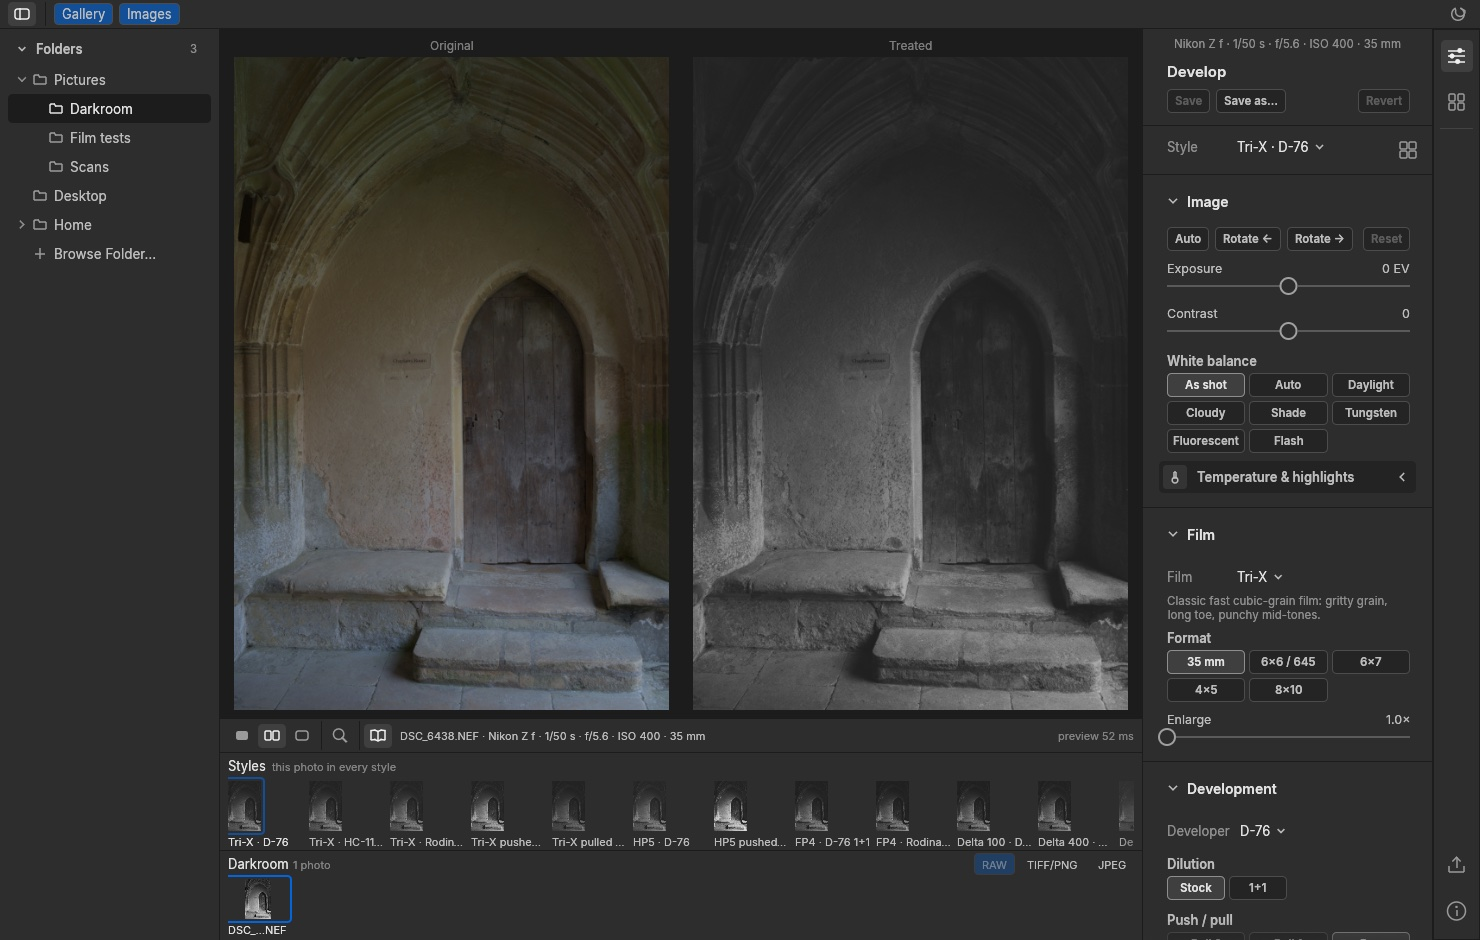
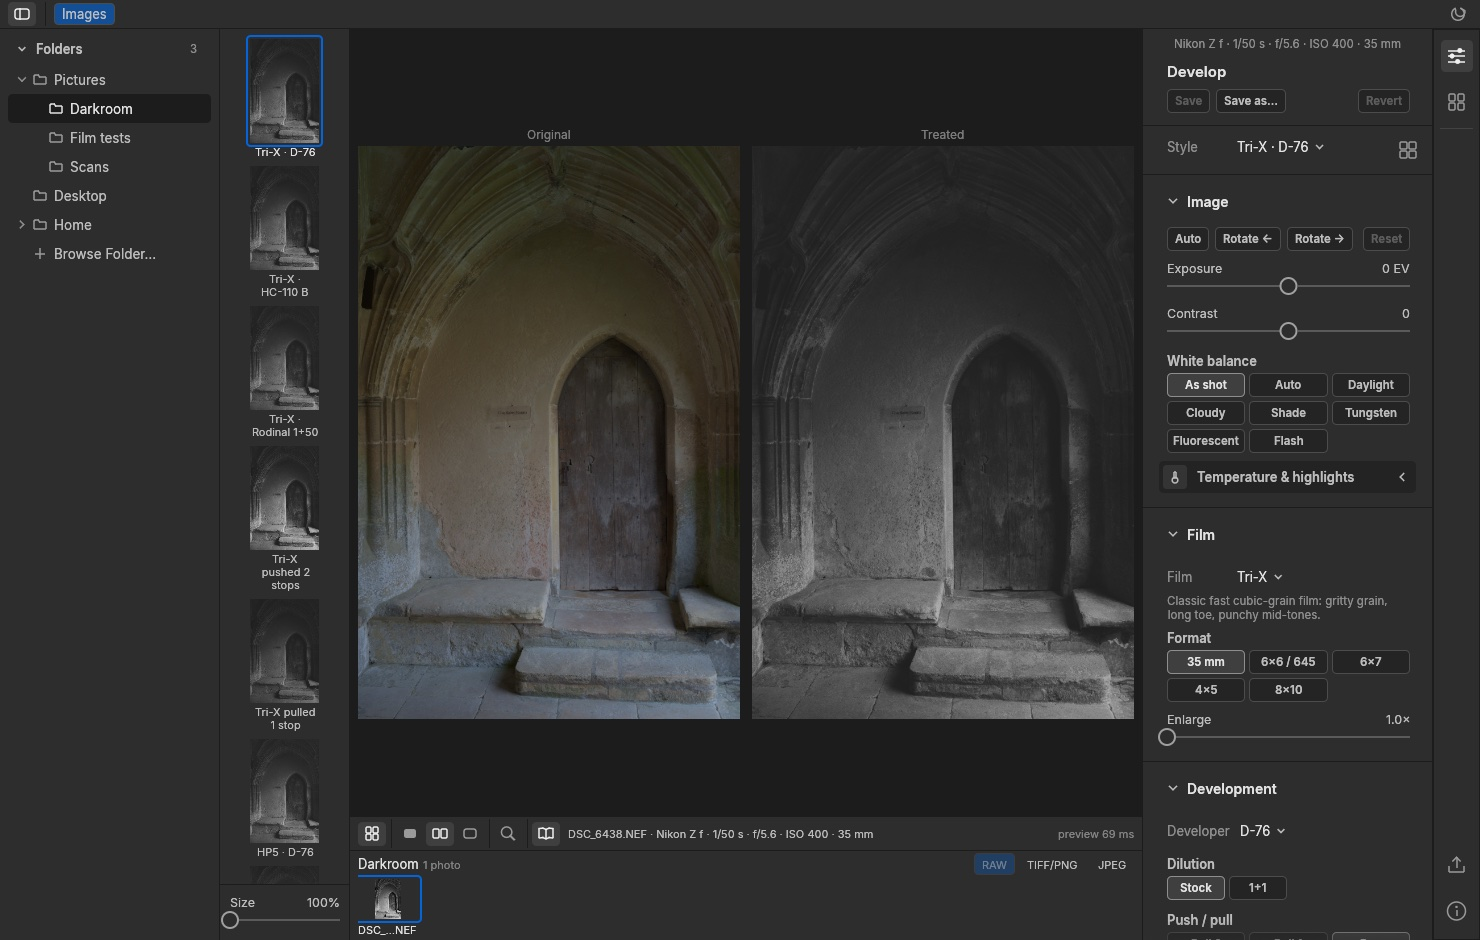
Style previews in a left column; README screenshot
- Style gallery moves to a column beside the folder tree: previews twice the
  earlier size, in the photo's shape, names wrapped to the preview width,
  a Size slider (Develop-panel style) at its base.
- Grid icon on the toolbar shows/hides it; the top-bar Gallery button and
  the Styles accordion header are gone.
- Fix the column reserving 14 pt too little width (slider row drawn into
  its margin).
- README screenshot of the new layout.

diff --git a/apps/bw-desktop/src/app.rs b/apps/bw-desktop/src/app.rs
@@ -29,6 +29,7 @@ const KEY_FOLDER: &str = "folder";
 const KEY_MODULE: &str = "right_module";
 const KEY_THEME: &str = "theme";
 const KEY_SHOW_INFO: &str = "show_info";
+const KEY_GALLERY_SCALE: &str = "gallery_scale";
 const KEY_BROWSER_BITMAPS: &str = "browser_bitmaps";
 const KEY_BROWSER_JPEGS: &str = "browser_jpegs";
 const KEY_UPDATE_AUTO: &str = "update_auto";
@@ -212,6 +213,32 @@ enum UpdateDialog {
 const KEY_EXPORT_DIR: &str = "export_dir";
 const KEY_EXPORT: &str = "export_settings";
 const KEY_PANELS: &str = "panels";
+/// Height of a style-gallery preview at the smallest size, in points; the size slider
+/// scales it up to twice this.
+const GALLERY_TILE_H: f32 = 104.0;
+/// Margin each side of the style previews in their column.
+const GALLERY_MARGIN: f32 = 10.0;
+
+/// Width of the style gallery column for previews `tile_w` wide: the previews, their
+/// margins and room for the scroll bar, and never too narrow for the size slider.
+fn gallery_width(tile_w: f32) -> f32 {
+    (tile_w + 2.0 * GALLERY_MARGIN + 6.0).max(130.0)
+}
+
+/// The style gallery's preview size, as a percentage of the smallest.
+const GALLERY_SIZE: widgets::SliderSpec = widgets::SliderSpec {
+    id: "gallery.size",
+    label: "Size",
+    help: "Size of the style previews, from the smallest (100%) to twice that (200%).",
+    min: 100.0,
+    max: 200.0,
+    default: 100.0,
+    step: 5.0,
+    decimals: 0,
+    suffix: "%",
+    signed: false,
+    log: false,
+};
 /// Side of the detail window's image area, in points.
 const DETAIL_VIEW_PT: f32 = 512.0;
 
@@ -279,6 +306,8 @@ pub struct App {
     compare: Compare,
     /// The toolbar shows the file name and capture details.
     show_info: bool,
+    /// Style-gallery preview size, 1 (smallest) to 2 (twice as large).
+    gallery_scale: f32,
 
     show_browser: bool,
     show_styles: bool,
@@ -441,6 +470,9 @@ impl App {
             preview_ms: None,
             compare: Compare::Treated,
             show_info: get(KEY_SHOW_INFO).is_none_or(|v| v != "0"),
+            gallery_scale: get(KEY_GALLERY_SCALE)
+                .and_then(|v| v.parse::<f32>().ok())
+                .map_or(1.0, |v| v.clamp(1.0, 2.0)),
             show_browser: panels[0],
             show_styles: panels[1],
             show_gallery: panels[2],
@@ -1537,8 +1569,6 @@ impl App {
                 self.about.open = true;
             }
             ui.separator();
-            ui.toggle_value(&mut self.show_gallery, "Gallery")
-                .on_hover_text("Show or hide the style gallery: this photo in every style (G)");
             ui.toggle_value(&mut self.show_filmstrip, "Images")
                 .on_hover_text("Show or hide the strip of photos in the chosen folder (I)");
             ui.with_layout(egui::Layout::right_to_left(egui::Align::Center), |ui| {
@@ -2123,88 +2153,130 @@ impl App {
         }
     }
 
+    /// Size of a style preview in the photo's shape: [`GALLERY_TILE_H`] × the size setting
+    /// tall (very wide panoramas are capped at twice that in width).
+    fn gallery_tile_size(&self) -> Vec2 {
+        let shape = self
+            .tiles
+            .iter()
+            .find_map(|t| match t {
+                Tile::Ready(tex) => Some(tex.size_vec2()),
+                _ => None,
+            })
+            .or_else(|| self.original.as_ref().map(|t| t.size_vec2()))
+            .unwrap_or(Vec2::new(3.0, 2.0));
+        let h = GALLERY_TILE_H * self.gallery_scale;
+        let aspect = (shape.x / shape.y).clamp(0.2, 5.0);
+        let w = (h * aspect).min(2.0 * h);
+        Vec2::new(w, w / aspect)
+    }
+
+    /// The style gallery column: the photo in every style, one preview above another,
+    /// with the preview-size slider at its base.
     fn gallery(&mut self, ui: &mut egui::Ui) {
         let mut pick = None;
         let mut menu_action = None;
-        ui.horizontal(|ui| {
-            ui.label(egui::RichText::new("Styles").strong())
-                .on_hover_text("The photo above rendered in every style. Click one to use it.");
-            ui.label(
-                egui::RichText::new("this photo in every style")
-                    .small()
-                    .weak(),
-            );
-        });
-        egui::ScrollArea::horizontal()
-            .auto_shrink([false, true])
+        // Fill the column: egui reserves only the width a fixed-size panel's contents use,
+        // and the narrow previews would let the photo's panels overlap the slider.
+        ui.set_min_width(ui.available_width());
+        ui.spacing_mut().item_spacing.y = 0.0;
+        // Every preview shows the same photo, so all share its shape.
+        let size = self.gallery_tile_size();
+        let accent = Tokens::get(ui.ctx()).accent;
+        // The slider keeps its place at the base; the previews scroll above it.
+        let slider_h = 52.0;
+        let list_h = (ui.available_height() - slider_h).max(0.0);
+        egui::ScrollArea::vertical()
+            .max_height(list_h)
+            .min_scrolled_height(list_h)
+            .auto_shrink(false)
             .show(ui, |ui| {
-                let tile_h = (ui.available_height() - 22.0).clamp(50.0, 260.0);
-                let size = Vec2::new(tile_h * 1.5, tile_h);
-                ui.horizontal(|ui| {
+                ui.vertical_centered(|ui| {
+                    ui.spacing_mut().item_spacing.y = 2.0;
                     for (i, entry) in self.store.entries.iter().enumerate() {
-                        ui.vertical(|ui| {
-                            ui.set_width(size.x);
-                            let response = match self.tiles.get(i) {
-                                Some(Tile::Ready(tex)) => ui.add(
-                                    egui::Image::new(tex)
-                                        .fit_to_exact_size(size)
-                                        .maintain_aspect_ratio(true)
-                                        .sense(Sense::click()),
-                                ),
-                                Some(Tile::Unavailable) => {
-                                    let (rect, response) =
-                                        ui.allocate_exact_size(size, Sense::click());
-                                    ui.put(
-                                        rect,
-                                        egui::Label::new(
-                                            egui::RichText::new("No published time").small().weak(),
-                                        ),
+                        let selected = i == self.current;
+                        ui.add_space(6.0);
+                        let (rect, response) = ui.allocate_exact_size(size, Sense::click());
+                        let response = match self.tiles.get(i) {
+                            Some(Tile::Ready(tex)) => {
+                                let t = tex.size_vec2();
+                                let scale = (size.x / t.x).min(size.y / t.y);
+                                let shown = egui::Rect::from_center_size(rect.center(), t * scale);
+                                egui::Image::new(tex).paint_at(ui, shown);
+                                if selected {
+                                    ui.painter().rect_stroke(
+                                        shown.expand(2.0),
+                                        2.0,
+                                        Stroke::new(2.0, accent),
+                                        egui::StrokeKind::Outside,
                                     );
-                                    response.on_hover_text(
-                                        "This film and developer have no published development time, so the style can't be rendered.",
-                                    )
                                 }
-                                _ => {
-                                    let (rect, response) =
-                                        ui.allocate_exact_size(size, Sense::click());
-                                    if self.loaded.is_some() {
-                                        ui.put(rect, egui::Spinner::new());
-                                    }
-                                    response
-                                }
-                            };
-                            let text = egui::RichText::new(&entry.style.name).small();
-                            let text = if i == self.current {
-                                text.strong()
-                            } else {
-                                text
-                            };
-                            ui.add(egui::Label::new(text).truncate());
-                            if i == self.current {
-                                ui.painter().rect_stroke(
-                                    response.rect.expand(2.0),
-                                    2.0,
-                                    Stroke::new(2.0, ui.visuals().selection.bg_fill),
-                                    egui::StrokeKind::Outside,
+                                response
+                            }
+                            Some(Tile::Unavailable) => {
+                                ui.put(
+                                    rect,
+                                    egui::Label::new(
+                                        egui::RichText::new("No published time").small().weak(),
+                                    ),
                                 );
+                                response.on_hover_text(
+                                    "This film and developer have no published development time, so the style can't be rendered.",
+                                )
                             }
-                            let response = response.on_hover_text(format!(
-                                "{} (right-click for options)",
-                                entry.style.name
-                            ));
-                            if response.clicked() {
-                                pick = Some(i);
-                            }
-                            let (up, down) = (self.store.can_move(i, -1), self.store.can_move(i, 1));
-                            response.context_menu(|ui| {
-                                if let Some(a) = style_menu::items(ui, i, entry.builtin, up, down) {
-                                    menu_action = Some(a);
+                            _ => {
+                                if self.loaded.is_some() {
+                                    ui.put(rect, egui::Spinner::new());
                                 }
-                            });
+                                response
+                            }
+                        };
+                        let text = egui::RichText::new(&entry.style.name).small();
+                        let text = if selected { text.strong() } else { text };
+                        // The name wraps within the preview's width, centred under it.
+                        ui.allocate_ui(Vec2::new(size.x, 0.0), |ui| {
+                            ui.set_max_width(size.x);
+                            ui.vertical_centered(|ui| ui.add(egui::Label::new(text).wrap()));
+                        });
+                        let response = response.on_hover_text(format!(
+                            "{}: the photo in this style. Click to use it; right-click for options.",
+                            entry.style.name
+                        ));
+                        if response.clicked() {
+                            pick = Some(i);
+                        }
+                        let (up, down) = (self.store.can_move(i, -1), self.store.can_move(i, 1));
+                        response.context_menu(|ui| {
+                            if let Some(a) = style_menu::items(ui, i, entry.builtin, up, down) {
+                                menu_action = Some(a);
+                            }
                         });
                     }
+                    ui.add_space(6.0);
                 });
             });
+        widgets::divider(ui);
+        ui.add_space(4.0);
+        // The Develop panel's slider row, with its wide inset drawn into the column's
+        // margins so the track lines up with the previews.
+        let cursor = ui.cursor().min;
+        let panel = ui.clip_rect();
+        let row = egui::Rect::from_min_max(
+            Pos2::new(panel.left() + GALLERY_MARGIN - widgets::PAD_L, cursor.y),
+            Pos2::new(
+                panel.right() - GALLERY_MARGIN + widgets::PAD_R,
+                panel.bottom(),
+            ),
+        );
+        let mut percent = f64::from(self.gallery_scale) * 100.0;
+        let mut child = ui.new_child(egui::UiBuilder::new().max_rect(row));
+        if widgets::slider(&mut child, &GALLERY_SIZE, &mut percent, true) {
+            self.gallery_scale = (percent / 100.0) as f32;
+        }
+        // Reserve the row within the column: counting the margin it is drawn into would
+        // move the column's edge.
+        let height = child.min_rect().height();
+        ui.allocate_exact_size(Vec2::new(ui.available_width(), height), Sense::hover());
         if let Some(i) = pick {
             self.select_style(i);
         }
@@ -2218,6 +2290,17 @@ impl App {
     fn toolbar(&mut self, ui: &mut egui::Ui) {
         ui.horizontal_centered(|ui| {
             ui.spacing_mut().item_spacing.x = 2.0;
+            if widgets::icon_button(
+                ui,
+                Icon::Grid,
+                self.show_gallery,
+                "Show or hide the style previews: this photo in every style (G)",
+            )
+            .clicked()
+            {
+                self.show_gallery = !self.show_gallery;
+            }
+            ui.separator();
             for (mode, icon, help) in [
                 (
                     Compare::Treated,
@@ -2479,6 +2562,17 @@ impl eframe::App for App {
             .size_range(160.0..=420.0)
             .show_collapsible(ui, &mut show_browser, |ui| self.browser_panel(ui));
         self.show_browser = show_browser;
+        // The style gallery: a column beside the folder tree, as wide as its previews.
+        let mut show_gallery = self.show_gallery;
+        let gallery_w = gallery_width(self.gallery_tile_size().x);
+        egui::Panel::left("style_column")
+            .frame(
+                egui::Frame::side_top_panel(ui.style()).inner_margin(egui::Margin::symmetric(0, 4)),
+            )
+            .resizable(false)
+            .exact_size(gallery_w)
+            .show_collapsible(ui, &mut show_gallery, |ui| self.gallery(ui));
+        self.show_gallery = show_gallery;
         let tokens = Tokens::get(ctx);
         egui::Panel::right("tool_strip")
             .exact_size(48.0)
@@ -2501,7 +2595,7 @@ impl eframe::App for App {
                 Module::Styles => self.styles_panel(ui),
             });
         self.show_styles = show_styles;
-        // The image strip sits at the very bottom, the style gallery above it.
+        // The image strip sits at the very bottom, the toolbar above it.
         let mut show_filmstrip = self.show_filmstrip;
         egui::Panel::bottom("filmstrip")
             .resizable(true)
@@ -2509,13 +2603,6 @@ impl eframe::App for App {
             .size_range(90.0..=280.0)
             .show_collapsible(ui, &mut show_filmstrip, |ui| self.filmstrip(ui));
         self.show_filmstrip = show_filmstrip;
-        let mut show_gallery = self.show_gallery;
-        egui::Panel::bottom("gallery")
-            .resizable(true)
-            .default_size(120.0)
-            .size_range(80.0..=300.0)
-            .show_collapsible(ui, &mut show_gallery, |ui| self.gallery(ui));
-        self.show_gallery = show_gallery;
         egui::Panel::bottom("toolbar")
             .resizable(false)
             .exact_size(34.0)
@@ -2687,6 +2774,7 @@ impl eframe::App for App {
         storage.set_string(KEY_BROWSER_BITMAPS, flag_str(self.browser_filter.bitmaps));
         storage.set_string(KEY_UPDATE_AUTO, flag_str(self.update_auto));
         storage.set_string(KEY_SHOW_INFO, flag_str(self.show_info));
+        storage.set_string(KEY_GALLERY_SCALE, self.gallery_scale.to_string());
         storage.set_string(KEY_UPDATE_LAST, self.update_last_check.to_string());
         storage.set_string(
             KEY_UPDATE_SKIPPED,

diff --git a/apps/bw-desktop/src/worker.rs b/apps/bw-desktop/src/worker.rs
@@ -24,7 +24,7 @@ use crate::export::{Conflict, Format, resolve_conflict};
 use crate::source::Source;
 
 /// Long edge of style-gallery tiles.
-pub const TILE_EDGE: usize = 360;
+pub const TILE_EDGE: usize = 480;
 /// Pixel rectangle `(x, y, width, height)` of a detail crop of `size` pixels centred on
 /// `centre` (0–1 across the image), moved inwards where it would cross an edge.
 pub fn detail_rect(

diff --git a/docs/USER_GUIDE.md b/docs/USER_GUIDE.md
@@ -69,14 +69,14 @@ installed without you.
 
 | Area | What it's for |
 |---|---|
-| **Top bar** | The sidebar icon (far left) shows or hides the folder tree; **Gallery** and **Images** show or hide the strips under the photo. The theme icon (far right) steps through **Auto**, **Light** and **Dark**. The Develop/Styles panel and Export are in the tool strip. |
+| **Top bar** | The sidebar icon (far left) shows or hides the folder tree, and **Images** the strip under the photo. The theme icon (far right) steps through **Auto**, **Light** and **Dark**. The Develop/Styles panel and Export are in the tool strip. |
 | **Folders** (left) | A tree of folders: choose the one you're working in. |
 | **Image** (centre) | The selected photo rendered with the current style, or compared with the original. |
-| **Toolbar** (under the photo) | Icons for the **Treated**, **Side by side** and **Original** views, **Detail 1:1** (magnifying glass), and a book that shows or hides the file name and capture details. |
+| **Toolbar** (under the photo) | A grid icon that shows or hides the style column, then icons for the **Treated**, **Side by side** and **Original** views, **Detail 1:1** (magnifying glass), and a book that shows or hides the file name and capture details. |
 | **Tool strip** (far right) | Icons that choose the panel beside it: **Develop** and **Styles** at the top, **Export** and **About** at the bottom. Click the active icon again to hide the panel. |
 | **Develop** panel (right) | The style picker and the Image, Film, Development, Grain and Print sections. |
 | **Styles** panel (right) | Every style, in groups. |
-| **Styles** strip (bottom) | The current photo rendered with every style, to compare them at a glance. |
+| **Styles** column (left, beside the folders) | The current photo rendered with every style, to compare them at a glance. The **Size** slider at its base makes the previews up to twice as large (double-click it to reset). Show or hide it with the grid icon at the left of the toolbar. |
 | **Images** strip (very bottom) | The photos in the chosen folder: click one to open it. |
 
 The Develop panel's sections open and close with a click on their title, and remember how
@@ -339,7 +339,7 @@ field.
 | **D** | Detail window on or off |
 | **B** | Show or hide the folder tree |
 | **W** | Show or hide the Develop / Styles panel |
-| **G** | Show or hide the style gallery |
+| **G** | Show or hide the style column |
 | **I** | Show or hide the image strip |
 | **F** | Focus: hide or show all panels |
 | **⌘E** | Export |

diff --git a/CHANGELOG.md b/CHANGELOG.md
@@ -6,7 +6,17 @@ All notable changes to this project are recorded here. The format follows
 ## [Unreleased]
 
 ### Changed
-- The README screenshot's folder tree shows only neutral example folders.
+- **The style gallery is a column on the left**, beside the folder tree, so larger
+  previews no longer take height from the photo. Previews are twice their earlier size,
+  in the photo's own shape, with their names wrapped to the preview's width beneath. The
+  column fits snugly around them. A **Size** slider at the column's base (styled like the
+  Develop panel's sliders) makes them up to twice as large again; the column's width
+  follows it and the size is remembered. The previews are rendered larger to stay
+  sharp. The image strip stays at the bottom.
+- The style column is shown and hidden with a grid icon at the left of the toolbar
+  (or **G**), instead of the **Gallery** button in the top bar.
+- The README screenshot shows the style column, and its folder tree shows only neutral
+  example folders.
 
 ## [0.9.0] - 2026-10-23
 

diff --git a/README.md b/README.md
@@ -1,6 +1,6 @@
 # BW Darkroom
 
-![BW Darkroom: a raw photo of an arched stone doorway shown side by side, the colour original next to the print rendered as Tri-X developed in D-76, with the folder tree, the comparison toolbar, the style gallery, the image strip, the Develop panel and the tool strip](docs/images/screenshot.jpg)
+![BW Darkroom: a raw photo of an arched stone doorway shown side by side, the colour original next to the print rendered as Tri-X developed in D-76, with the folder tree, the column of style previews, the comparison toolbar, the image strip, the Develop panel and the tool strip](docs/images/screenshot.jpg)
 
 A black-and-white photographic emulation engine in Rust, with a command-line tool and a
 desktop app. Film, developer and processing are modelled as separate components that
